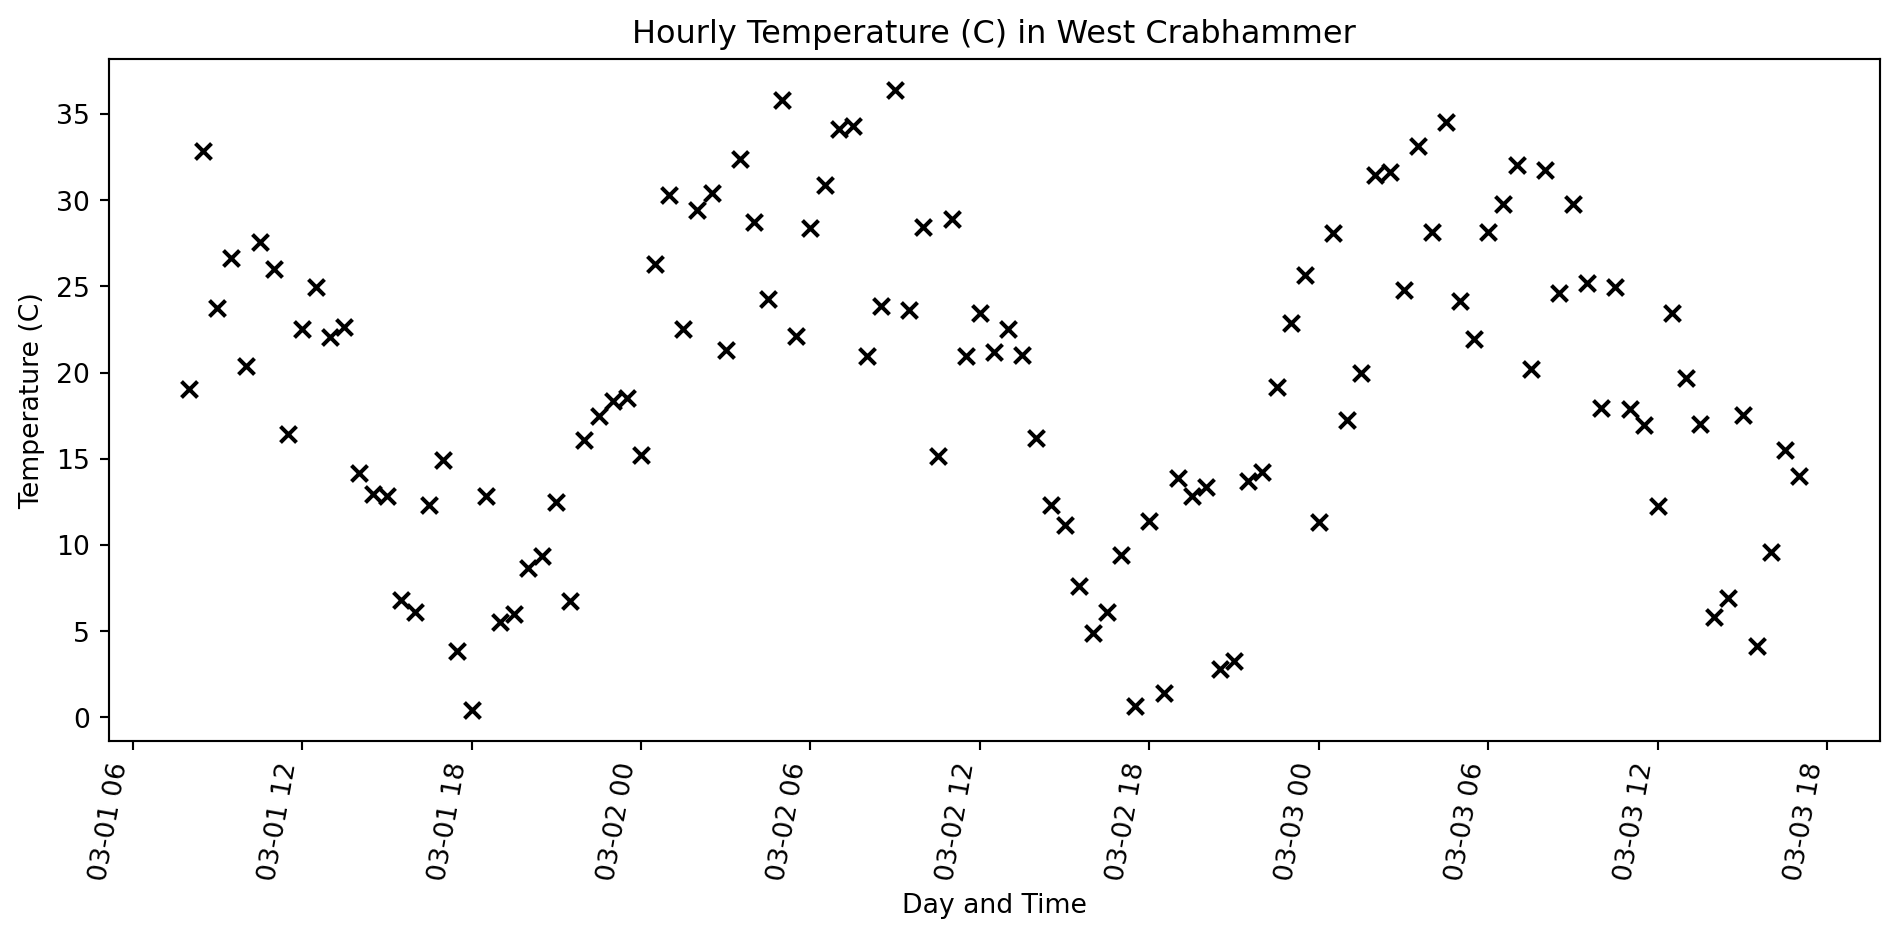
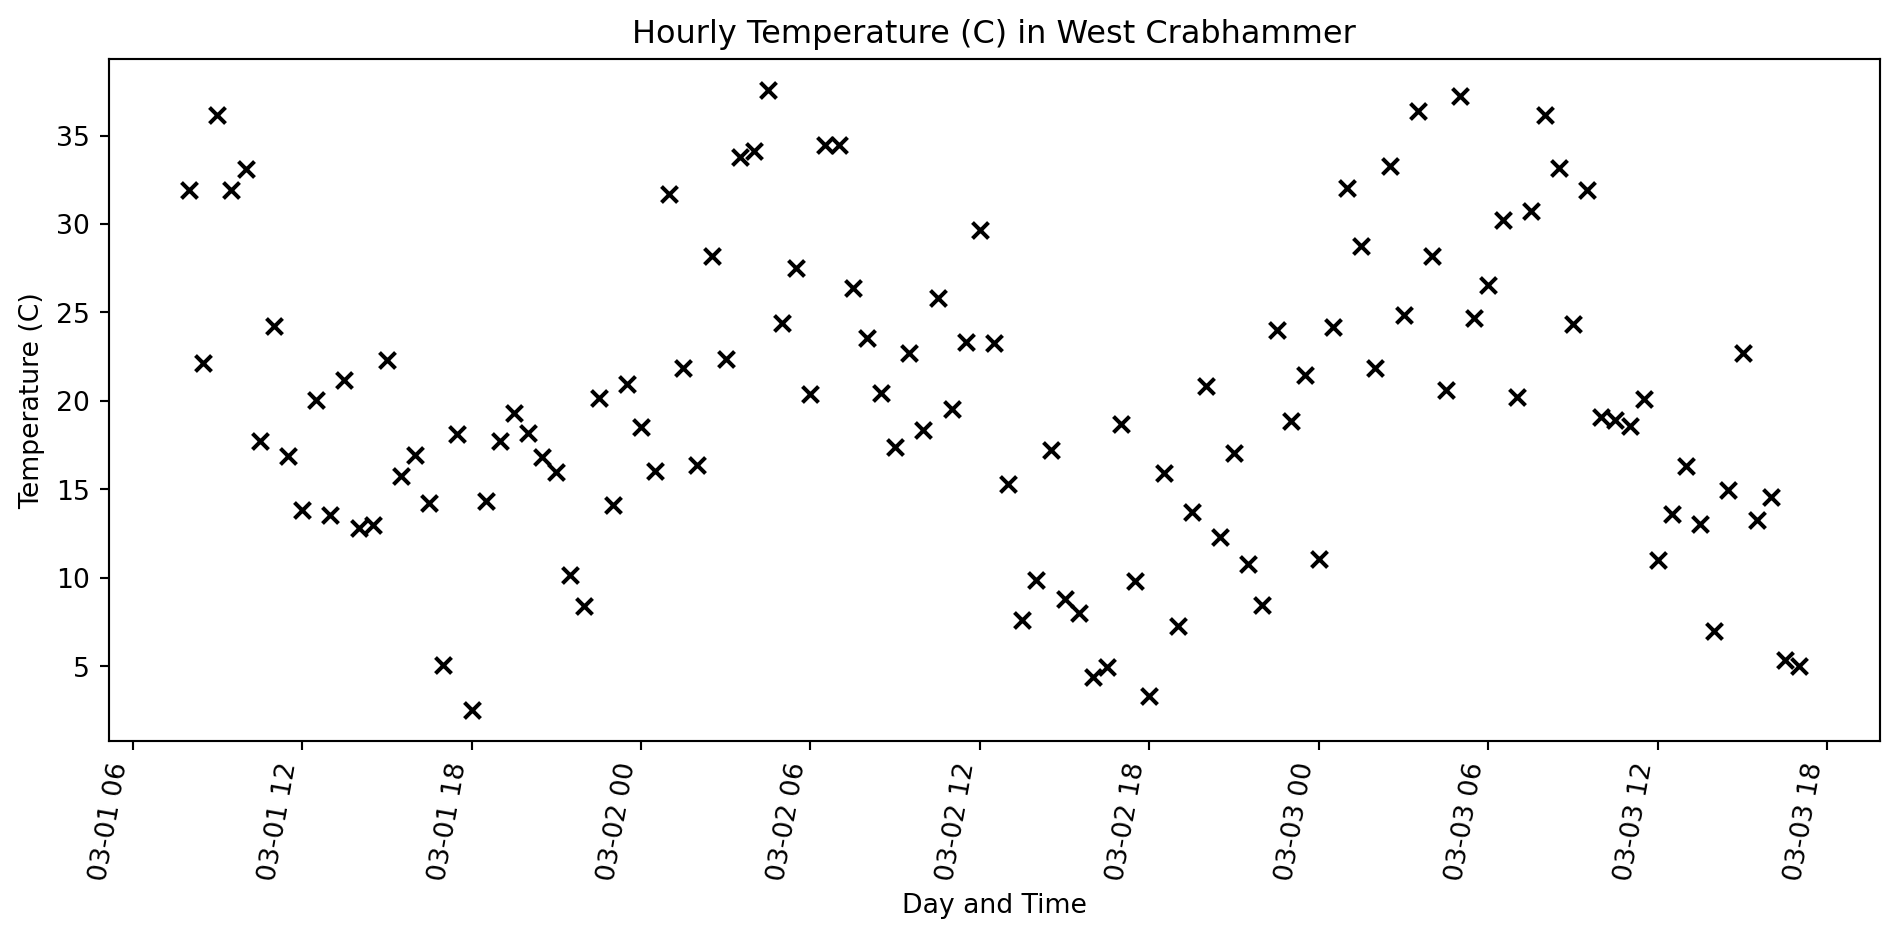
addng to python lecture

diff --git a/docs/python_geospatial_basics.html b/docs/python_geospatial_basics.html
@@ -109,6 +109,7 @@
     }
     .reveal .slide:not(.center) {
       height: 100%;
+      overflow-y: auto;
     }
     .reveal .slide.scrollable {
       overflow-y: auto;
@@ -294,7 +295,7 @@
 <section id="basic-numbers" class="slide level2">
 <h2>Basic Numbers</h2>
 <p>Floats and Ints don’t do anything all that surprising</p>
-<div id="8c22198d" class="cell columns column-output-location" data-execution_count="1">
+<div id="3e15fc74" class="cell columns column-output-location" data-execution_count="1">
 <div class="column">
 <div class="sourceCode cell-code" id="cb5"><pre class="sourceCode numberSource python number-lines code-with-copy"><code class="sourceCode python"><span id="cb5-1"><a></a>a <span class="op">=</span> <span class="dv">2</span> <span class="op">+</span> <span class="dv">2</span></span>
 <span id="cb5-2"><a></a>b <span class="op">=</span> <span class="fl">2.0</span> <span class="op">+</span> <span class="fl">2.0</span></span>
@@ -323,7 +324,7 @@ and 5 % 4 is 1</code></pre>
 <section id="exercise---basic-numbers" class="slide level2" data-background="#FF007F">
 <h2>Exercise - Basic Numbers</h2>
 <p>Try the following, print the results, see what they do.</p>
-<div id="348fb512" class="cell columns column-output-location" data-execution_count="2">
+<div id="956912fe" class="cell columns column-output-location" data-execution_count="2">
 <div class="column">
 <div class="sourceCode cell-code" id="cb7"><pre class="sourceCode numberSource python number-lines code-with-copy"><code class="sourceCode python"><span id="cb7-1"><a></a>a <span class="op">=</span> <span class="dv">5</span> <span class="op">//</span> <span class="dv">4</span></span>
 <span id="cb7-2"><a></a>b <span class="op">=</span> <span class="dv">5</span> <span class="op">%</span> <span class="dv">4</span></span>
@@ -335,7 +336,7 @@ and 5 % 4 is 1</code></pre>
 <section id="sequences" class="slide level2">
 <h2>Sequences</h2>
 <p>Lists, tuples, and strings ae all sequences</p>
-<div id="a8d42fe1" class="cell columns column-output-location" data-execution_count="3">
+<div id="733eb7c6" class="cell columns column-output-location" data-execution_count="3">
 <div class="column">
 <div class="sourceCode cell-code" id="cb8"><pre class="sourceCode numberSource python number-lines code-with-copy"><code class="sourceCode python"><span id="cb8-1"><a></a><span class="co"># a list</span></span>
 <span id="cb8-2"><a></a>a_list <span class="op">=</span> [<span class="dv">1</span>, <span class="dv">2</span>, <span class="dv">3</span>, <span class="dv">4</span>, <span class="dv">5</span>, <span class="dv">6</span>, <span class="dv">7</span>, <span class="dv">8</span>, <span class="dv">9</span>]</span>
@@ -383,7 +384,7 @@ neushorn?</code></pre>
 <section id="exercise---lists-and-tuples" class="slide level2" data-background="#FF007F">
 <h2>Exercise - Lists and Tuples</h2>
 <p>The key between lists and tuples is that tuples are immutable. Try assigning a value to both of the following.</p>
-<div id="9c952ec5" class="cell columns column-output-location" data-execution_count="4">
+<div id="75847a89" class="cell columns column-output-location" data-execution_count="4">
 <div class="column">
 <div class="sourceCode cell-code" id="cb10"><pre class="sourceCode numberSource python number-lines code-with-copy"><code class="sourceCode python"><span id="cb10-1"><a></a><span class="co"># a list</span></span>
 <span id="cb10-2"><a></a>a_list <span class="op">=</span> [<span class="dv">1</span>, <span class="dv">2</span>, <span class="dv">3</span>, <span class="dv">4</span>, <span class="dv">5</span>, <span class="dv">6</span>, <span class="dv">7</span>, <span class="dv">8</span>, <span class="dv">9</span>]</span>
@@ -396,7 +397,7 @@ neushorn?</code></pre>
 </section>
 <section id="dictionaries" class="slide level2">
 <h2>Dictionaries</h2>
-<div id="ceaebf51" class="cell columns column-output-location" data-execution_count="5">
+<div id="048ed41d" class="cell columns column-output-location" data-execution_count="5">
 <div class="column">
 <div class="sourceCode cell-code" id="cb11"><pre class="sourceCode numberSource python number-lines code-with-copy"><code class="sourceCode python"><span id="cb11-1"><a></a>pets <span class="op">=</span> {<span class="st">'honden'</span>: <span class="dv">26</span>, <span class="st">'katten'</span>: <span class="dv">100</span>}</span>
 <span id="cb11-2"><a></a></span>
@@ -415,7 +416,7 @@ neushorn?</code></pre>
 </section>
 <section id="iterating" class="slide level2">
 <h2>Iterating</h2>
-<div id="de4d03a3" class="cell columns column-output-location" data-execution_count="6">
+<div id="ed58f2aa" class="cell columns column-output-location" data-execution_count="6">
 <div class="column">
 <div class="sourceCode cell-code" id="cb13"><pre class="sourceCode numberSource python number-lines code-with-copy"><code class="sourceCode python"><span id="cb13-1"><a></a>a <span class="op">=</span> [<span class="dv">1</span>, <span class="dv">2</span>, <span class="dv">3</span>, <span class="dv">4</span>, <span class="dv">5</span>, <span class="dv">6</span>, <span class="dv">7</span>, <span class="dv">8</span>, <span class="dv">9</span>]</span>
 <span id="cb13-2"><a></a></span>
@@ -441,7 +442,7 @@ is the same as
 <section id="exercise---iterating" class="slide level2" data-background="#FF007F">
 <h2>Exercise - Iterating</h2>
 <p>You can nest loops.</p>
-<div id="bea58dcd" class="cell columns column-output-location" data-execution_count="7">
+<div id="c7659ae7" class="cell columns column-output-location" data-execution_count="7">
 <div class="column">
 <div class="sourceCode cell-code" id="cb15"><pre class="sourceCode numberSource python number-lines code-with-copy"><code class="sourceCode python"><span id="cb15-1"><a></a>numbers <span class="op">=</span> []</span>
 <span id="cb15-2"><a></a><span class="cf">for</span> i <span class="kw">in</span> <span class="bu">range</span>(<span class="dv">3</span>):</span>
@@ -468,7 +469,7 @@ is the same as
 <li>can return something</li>
 <li>have there own scope</li>
 </ul>
-<div id="e706cf71" class="cell columns column-output-location" data-execution_count="8">
+<div id="f4275aef" class="cell columns column-output-location" data-execution_count="8">
 <div class="column">
 <div class="sourceCode cell-code" id="cb17"><pre class="sourceCode numberSource python number-lines code-with-copy"><code class="sourceCode python"><span id="cb17-1"><a></a><span class="im">import</span> numpy <span class="im">as</span> np</span>
 <span id="cb17-2"><a></a></span>
@@ -490,7 +491,7 @@ is the same as
 </div>
 </div></div>
 <p>They do not have to have arguments or return stuff.</p>
-<div id="e86bb0b2" class="cell columns column-output-location" data-execution_count="9">
+<div id="bf9412c3" class="cell columns column-output-location" data-execution_count="9">
 <div class="column">
 <div class="sourceCode cell-code" id="cb19"><pre class="sourceCode numberSource python number-lines code-with-copy"><code class="sourceCode python"><span id="cb19-1"><a></a><span class="kw">def</span> complain():</span>
 <span id="cb19-2"><a></a>  <span class="bu">print</span>(<span class="st">'This is boring!</span><span class="ch">\n</span><span class="st">when will we get to the GIS stuff.</span><span class="ch">\n\U0001F620\U0001F620\U0001F620\n\n</span><span class="st">Soon! Bear with me.'</span>)</span>
@@ -506,7 +507,7 @@ Soon! Bear with me.</code></pre>
 </div>
 </div></div>
 <p>Python is an <em>object oriented</em> programming language. Everything that you can assign to a variable (which is almost everything) can be though of as an object, for example, built in functions are objects.</p>
-<div id="167e4370" class="cell columns column-output-location" data-execution_count="10">
+<div id="0505b83f" class="cell columns column-output-location" data-execution_count="10">
 <div class="column">
 <div class="sourceCode cell-code" id="cb21"><pre class="sourceCode numberSource python number-lines code-with-copy"><code class="sourceCode python"><span id="cb21-1"><a></a>zzz <span class="op">=</span> <span class="bu">print</span></span>
 <span id="cb21-2"><a></a>zzz(<span class="st">'toenails'</span>)</span></code><button title="Copy to Clipboard" class="code-copy-button"><i class="bi"></i></button></pre></div>
@@ -516,7 +517,7 @@ Soon! Bear with me.</code></pre>
 </div>
 </div></div>
 <p>Many objects have built in functions as an attribute, these are called methods. For instance, strings have a method called split (they have many other methods as well).</p>
-<div id="6aaaa559" class="cell columns column-output-location" data-execution_count="11">
+<div id="17e0cb09" class="cell columns column-output-location" data-execution_count="11">
 <div class="column">
 <div class="sourceCode cell-code" id="cb23"><pre class="sourceCode numberSource python number-lines code-with-copy"><code class="sourceCode python"><span id="cb23-1"><a></a>s <span class="op">=</span> <span class="st">'hyphens-are-everywhere-they-haunt-me-in-my-dreams'</span></span>
 <span id="cb23-2"><a></a>s.split(<span class="st">'-'</span>)</span></code><button title="Copy to Clipboard" class="code-copy-button"><i class="bi"></i></button></pre></div>
@@ -530,7 +531,7 @@ Soon! Bear with me.</code></pre>
 <section id="exercise---functions" class="slide level2" data-background="#FF007F">
 <h2>Exercise - Functions</h2>
 <p>Use a function and a list comprehension to reproduce the results of the for loop below:</p>
-<div id="2b923c18" class="cell columns column-output-location" data-execution_count="12">
+<div id="f05536b8" class="cell columns column-output-location" data-execution_count="12">
 <div class="column">
 <div class="sourceCode cell-code" id="cb25"><pre class="sourceCode numberSource python number-lines code-with-copy"><code class="sourceCode python"><span id="cb25-1"><a></a>l <span class="op">=</span> [(<span class="dv">4</span>, <span class="dv">3</span>, <span class="dv">2</span>), (<span class="dv">2</span>, <span class="dv">2</span>, <span class="dv">2</span>), (<span class="dv">1</span>, <span class="dv">2</span>, <span class="dv">3</span>)]</span>
 <span id="cb25-2"><a></a></span>
@@ -550,7 +551,7 @@ Soon! Bear with me.</code></pre>
 </div>
 </div></div>
 <p>Take some time to contemplate, what is this?</p>
-<div id="8d329057" class="cell columns column-output-location" data-execution_count="13">
+<div id="748a088e" class="cell columns column-output-location" data-execution_count="13">
 <div class="column">
 <div class="sourceCode cell-code" id="cb27"><pre class="sourceCode numberSource python number-lines code-with-copy"><code class="sourceCode python"><span id="cb27-1"><a></a><span class="im">import</span> numpy <span class="im">as</span> np</span>
 <span id="cb27-2"><a></a></span>
@@ -565,7 +566,7 @@ Soon! Bear with me.</code></pre>
 </div>
 </div></div>
 <p>BTW, you can import a library as anything you want</p>
-<div id="e1b6acf3" class="cell columns column-output-location" data-execution_count="14">
+<div id="f0f69d66" class="cell columns column-output-location" data-execution_count="14">
 <div class="column">
 <div class="sourceCode cell-code" id="cb29"><pre class="sourceCode numberSource python number-lines code-with-copy"><code class="sourceCode python"><span id="cb29-1"><a></a><span class="im">import</span> numpy <span class="im">as</span> frogz_on_crack</span>
 <span id="cb29-2"><a></a></span>
@@ -577,7 +578,7 @@ Soon! Bear with me.</code></pre>
 </div></div>
 <p>Why would one avoid doing this kind of thing?</p>
 <p>You can also dump all of the objects from a module into the main namespace</p>
-<div id="a7028685" class="cell columns column-output-location" data-execution_count="15">
+<div id="82fa9bee" class="cell columns column-output-location" data-execution_count="15">
 <div class="column">
 <div class="sourceCode cell-code" id="cb31"><pre class="sourceCode numberSource python number-lines code-with-copy"><code class="sourceCode python"><span id="cb31-1"><a></a><span class="co"># from numpy import everything</span></span>
 <span id="cb31-2"><a></a><span class="im">from</span> numpy <span class="im">import</span> <span class="op">*</span></span>
@@ -592,7 +593,7 @@ Soon! Bear with me.</code></pre>
 <section id="pandas-dataframe" class="slide level2 smaller scrollable">
 <h2>Pandas DataFrame</h2>
 <p>DataFrames hold tabular data</p>
-<div id="fc53f54a" class="cell" data-execution_count="16">
+<div id="094496b5" class="cell" data-execution_count="16">
 <div class="sourceCode cell-code" id="cb33"><pre class="sourceCode numberSource python number-lines code-with-copy"><code class="sourceCode python"><span id="cb33-1"><a></a><span class="im">from</span> datetime <span class="im">import</span> datetime, timedelta</span>
 <span id="cb33-2"><a></a><span class="im">from</span> random <span class="im">import</span> uniform</span>
 <span id="cb33-3"><a></a><span class="im">import</span> matplotlib.pyplot <span class="im">as</span> plt</span>
@@ -655,27 +656,27 @@ Soon! Bear with me.</code></pre>
 <tr class="odd">
 <td data-quarto-table-cell-role="th">0</td>
 <td>2025-03-01 08:00:00</td>
-<td>19.024940</td>
+<td>31.933409</td>
 </tr>
 <tr class="even">
 <td data-quarto-table-cell-role="th">1</td>
 <td>2025-03-01 08:30:00</td>
-<td>32.857488</td>
+<td>22.165458</td>
 </tr>
 <tr class="odd">
 <td data-quarto-table-cell-role="th">2</td>
 <td>2025-03-01 09:00:00</td>
-<td>23.738600</td>
+<td>36.172490</td>
 </tr>
 <tr class="even">
 <td data-quarto-table-cell-role="th">3</td>
 <td>2025-03-01 09:30:00</td>
-<td>26.659147</td>
+<td>31.929343</td>
 </tr>
 <tr class="odd">
 <td data-quarto-table-cell-role="th">4</td>
 <td>2025-03-01 10:00:00</td>
-<td>20.390060</td>
+<td>33.116589</td>
 </tr>
 </tbody>
 </table>
@@ -686,7 +687,7 @@ Soon! Bear with me.</code></pre>
 </section>
 <section id="pandas-dataframe-cont." class="slide level2 scrollable">
 <h2>Pandas DataFrame Cont.</h2>
-<div id="ccb7363e" class="cell columns column-output-location" data-execution_count="17">
+<div id="56bb4de8" class="cell columns column-output-location" data-execution_count="17">
 <div class="column">
 <div class="sourceCode cell-code" id="cb34"><pre class="sourceCode numberSource python number-lines code-with-copy"><code class="sourceCode python"><span id="cb34-1"><a></a>fig, ax <span class="op">=</span> plt.subplots()</span>
 <span id="cb34-2"><a></a></span>
@@ -715,17 +716,17 @@ Soon! Bear with me.</code></pre>
 </div>
 </div>
 </div></div>
-<div id="103600d6" class="cell columns column-output-location" data-execution_count="18">
+<div id="e53ac2bc" class="cell columns column-output-location" data-execution_count="18">
 <div class="column">
 <div class="sourceCode cell-code" id="cb35"><pre class="sourceCode numberSource python number-lines code-with-copy"><code class="sourceCode python"><span id="cb35-1"><a></a><span class="co"># get the mean temperature over the timeseries</span></span>
 <span id="cb35-2"><a></a>df[<span class="st">'T (C)'</span>].mean()</span></code><button title="Copy to Clipboard" class="code-copy-button"><i class="bi"></i></button></pre></div>
 </div><div class="column">
 <div class="cell-output cell-output-display" data-execution_count="18">
-<pre><code>np.float64(19.20798135234932)</code></pre>
+<pre><code>np.float64(19.82803744425869)</code></pre>
 </div>
 </div></div>
 <p>When there are no spaces in a column name you can access the column as an attribute of the datafame.</p>
-<div id="96e62e63" class="cell columns column-output-location" data-execution_count="19">
+<div id="421d3a95" class="cell columns column-output-location" data-execution_count="19">
 <div class="column">
 <div class="sourceCode cell-code" id="cb37"><pre class="sourceCode numberSource python number-lines code-with-copy"><code class="sourceCode python"><span id="cb37-1"><a></a><span class="co"># get the number of time stamps in the date_time column</span></span>
 <span id="cb37-2"><a></a>df.date_time.count()</span></code><button title="Copy to Clipboard" class="code-copy-button"><i class="bi"></i></button></pre></div>
@@ -791,7 +792,7 @@ Soon! Bear with me.</code></pre>
 </section>
 <section id="polygon" class="slide level2">
 <h2>Polygon</h2>
-<div id="b7c8efc7" class="cell columns column-output-location" data-execution_count="20">
+<div id="853cc202" class="cell columns column-output-location" data-execution_count="20">
 <div class="column">
 <div class="sourceCode cell-code" id="cb39"><pre class="sourceCode numberSource python number-lines code-with-copy"><code class="sourceCode python"><span id="cb39-1"><a></a><span class="im">from</span> shapely <span class="im">import</span> Polygon</span>
 <span id="cb39-2"><a></a></span>
@@ -818,7 +819,7 @@ Soon! Bear with me.</code></pre>
 <section id="reading-files" class="slide level2">
 <h2>Reading Files</h2>
 <p>Here we will read a geojson using the <code>read_file</code> method.</p>
-<div id="9e561c4e" class="cell columns column-output-location" data-execution_count="21">
+<div id="d5db815c" class="cell columns column-output-location" data-execution_count="21">
 <div class="column">
 <div class="sourceCode cell-code" id="cb41"><pre class="sourceCode numberSource python number-lines code-with-copy"><code class="sourceCode python"><span id="cb41-1"><a></a><span class="im">from</span> pathlib <span class="im">import</span> Path</span>
 <span id="cb41-2"><a></a><span class="im">import</span> geopandas <span class="im">as</span> gpd</span>
@@ -912,7 +913,7 @@ Soon! Bear with me.</code></pre>
 'autoAnimateUnmatched': true,
 'jumpToSlide': true,
 'menu': {"side":"left","useTextContentForMissingTitles":true,"markers":false,"loadIcons":false,"custom":[{"title":"Tools","icon":"<i class=\"fas fa-gear\"></i>","content":"<ul class=\"slide-menu-items\">\n<li class=\"slide-tool-item active\" data-item=\"0\"><a href=\"#\" onclick=\"RevealMenuToolHandlers.fullscreen(event)\"><kbd>f</kbd> Fullscreen</a></li>\n<li class=\"slide-tool-item\" data-item=\"1\"><a href=\"#\" onclick=\"RevealMenuToolHandlers.speakerMode(event)\"><kbd>s</kbd> Speaker View</a></li>\n<li class=\"slide-tool-item\" data-item=\"2\"><a href=\"#\" onclick=\"RevealMenuToolHandlers.overview(event)\"><kbd>o</kbd> Slide Overview</a></li>\n<li class=\"slide-tool-item\" data-item=\"3\"><a href=\"#\" onclick=\"RevealMenuToolHandlers.togglePdfExport(event)\"><kbd>e</kbd> PDF Export Mode</a></li>\n<li class=\"slide-tool-item\" data-item=\"4\"><a href=\"#\" onclick=\"RevealMenuToolHandlers.toggleScrollView(event)\"><kbd>r</kbd> Scroll View Mode</a></li>\n<li class=\"slide-tool-item\" data-item=\"5\"><a href=\"#\" onclick=\"RevealMenuToolHandlers.keyboardHelp(event)\"><kbd>?</kbd> Keyboard Help</a></li>\n</ul>"}],"openButton":true},
-'smaller': false,
+'smaller': true,
  
         // Display controls in the bottom right corner
         controls: false,
